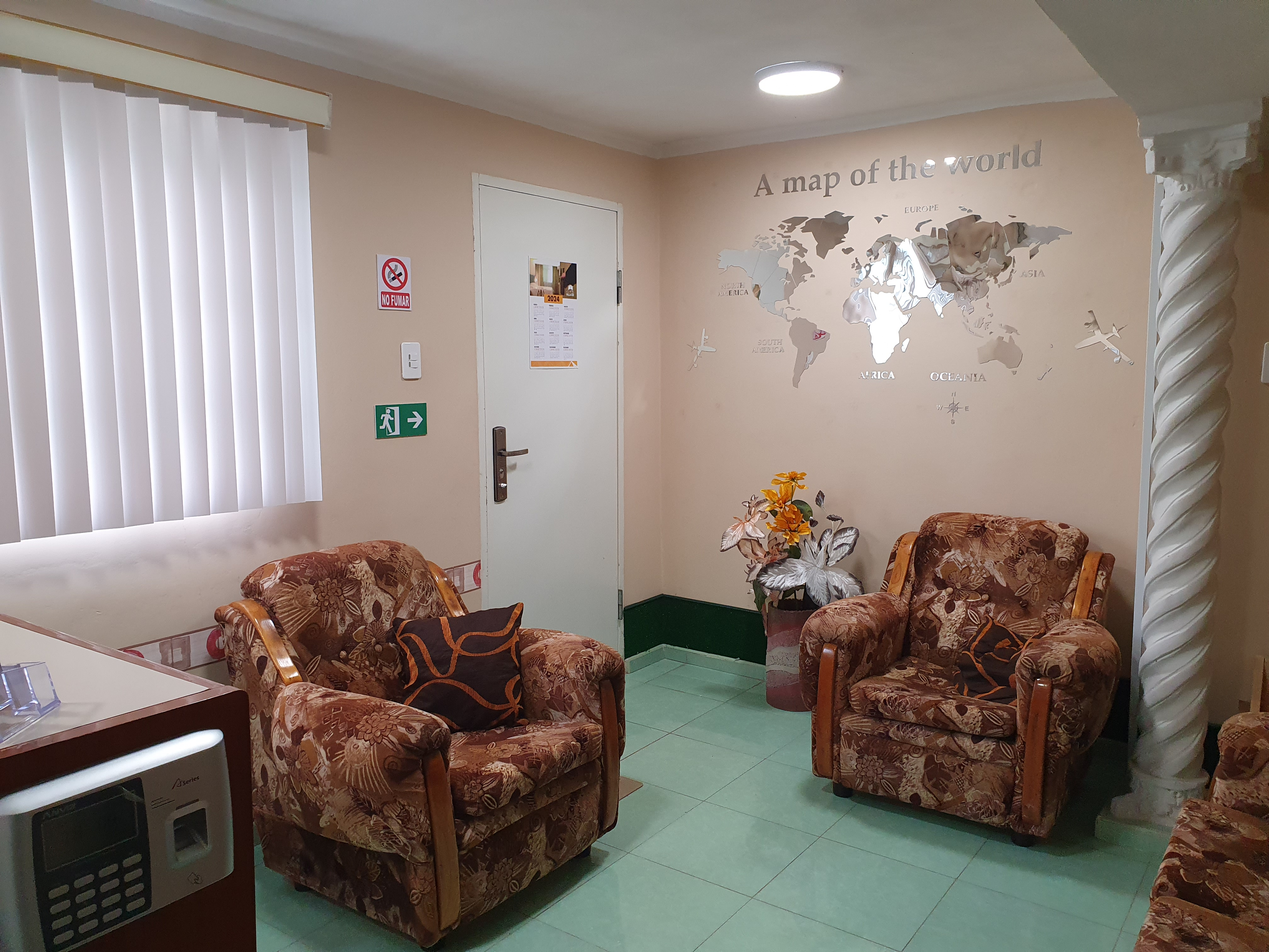
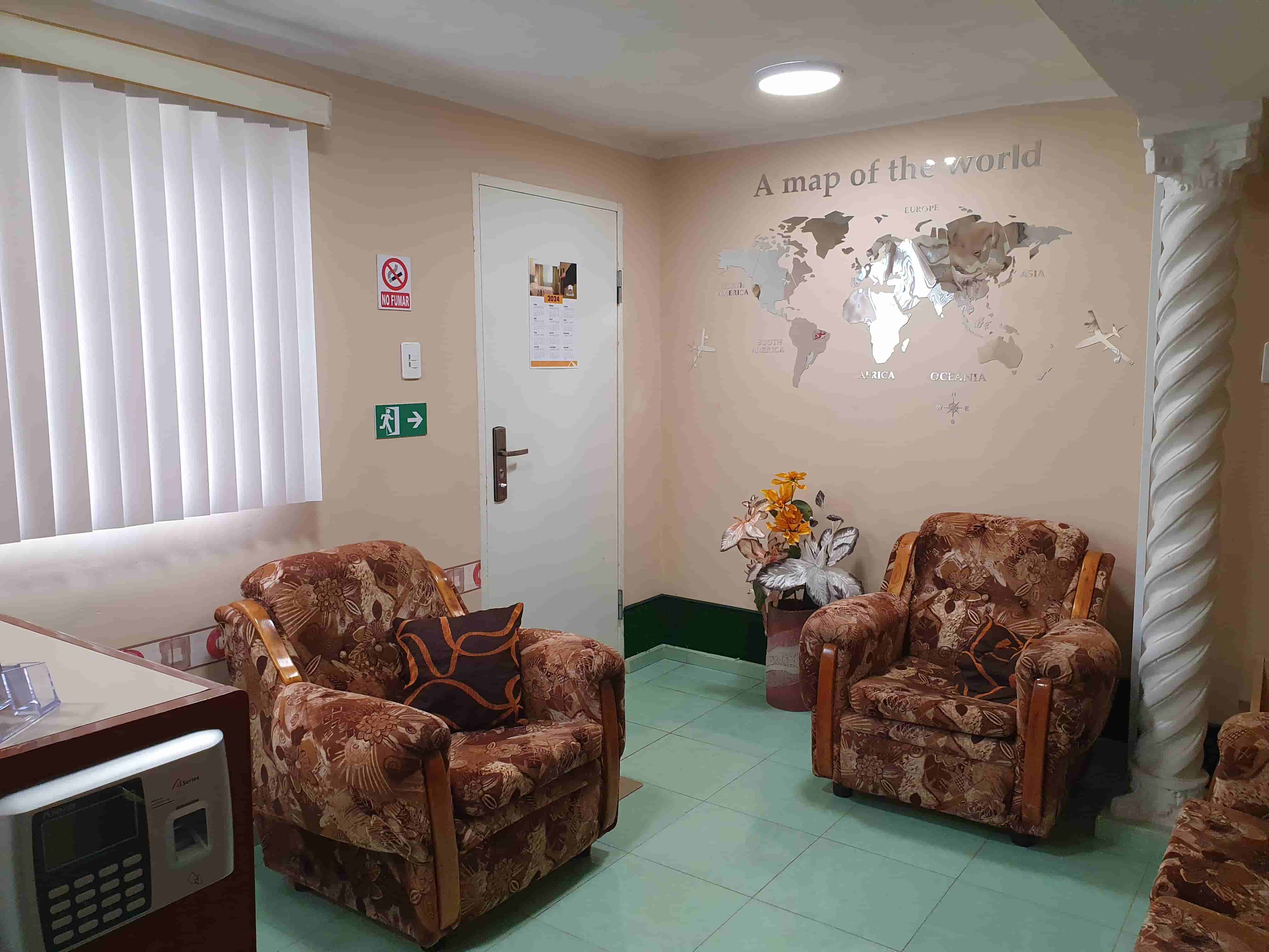
feat : compressing img

Changed region(s): [[0.5938, 0.4974, 0.625, 0.5595], [0.3438, 0.6528, 0.375, 0.6839]]

diff --git a/src/modules/client/pages/Home.tsx b/src/modules/client/pages/Home.tsx
@@ -51,7 +51,7 @@ const Index = () => {
         {/* Imagen con título superpuesto */}
         <div className="relative w-full aspect-video">
           <img
-            src="/Foto-portada-no1-editada-scaled.jpg"
+            src="/Foto-portada-no1-editada-scaled.webp"
             alt="Hostal Villa D2"
             className="absolute inset-0 w-full h-full object-cover object-center"
           />
@@ -79,7 +79,7 @@ const Index = () => {
         <div
           className="absolute inset-0 bg-center mt-10"
           style={{
-            backgroundImage: "url('/Foto-portada-no1-editada-scaled.jpg')",
+            backgroundImage: "url('/Foto-portada-no1-editada-scaled.webp')",
             backgroundSize: "100% 100%",
             backgroundRepeat: "no-repeat",
             backgroundPosition: "center",
